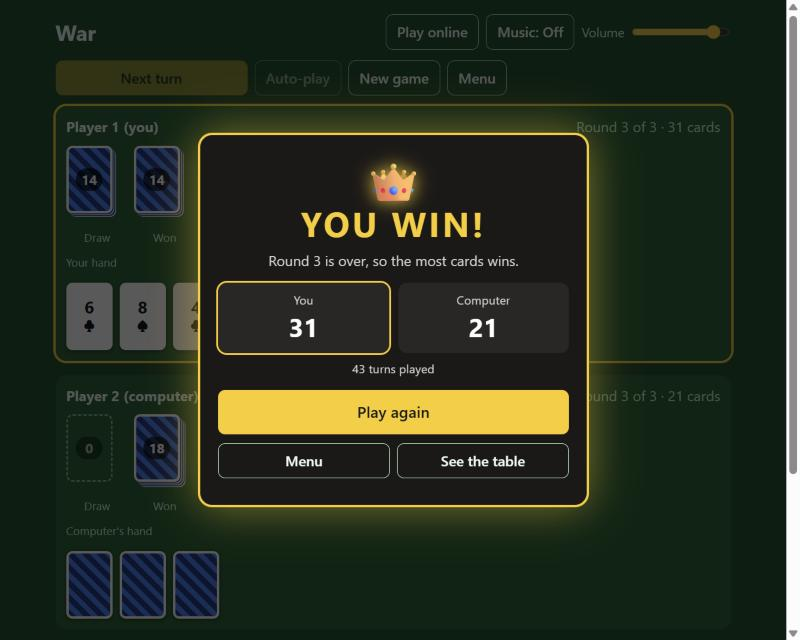
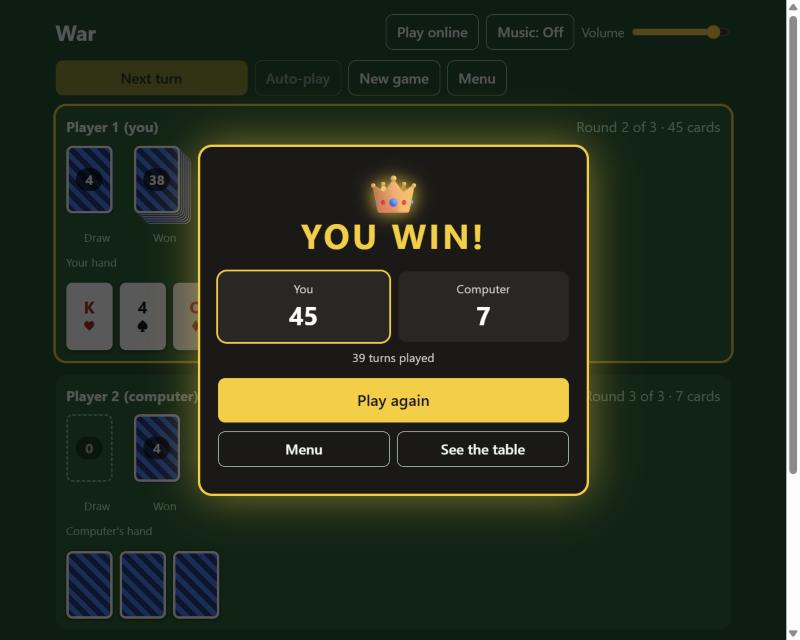
Remove the reason line from the end-of-match popup

diff --git a/war.html b/war.html
@@ -129,7 +129,7 @@
   #menu .row > * { flex: 1; }
   #menuStart { padding: 12px; font-size: 1.1rem; }
   #victory { border-color: var(--accent); box-shadow: 0 0 50px rgba(250, 204, 21, .5); position: fixed; }
-  #victory h2 { font-size: 2.4rem; }
+  #victory h2 { font-size: 2.4rem; margin-bottom: 14px; }
   #victory p { min-height: 0; margin-bottom: 14px; color: #d6d3d1; }
   #victory .crownBig { font-size: 52px; line-height: 1; filter: drop-shadow(0 0 10px #facc15); }
   #victory.draw .crownBig { display: none; }
@@ -400,7 +400,6 @@
 <dialog id="victory" aria-labelledby="victoryTitle">
   <div class="crownBig" aria-hidden="true">👑</div>
   <h2 id="victoryTitle">YOU WIN!</h2>
-  <p id="victoryWhy"></p>
   <div class="score">
     <div><span id="vName0">Player 1</span><strong id="vCards0">0</strong></div>
     <div><span id="vName1">Player 2</span><strong id="vCards1">0</strong></div>
@@ -1663,11 +1662,6 @@ function showVictory() {
   const me = online() ? net.me : draw3() ? 0 : null;   // the seat that is "you", if there is one
   $("victory").classList.toggle("draw", w === null);
   $("victoryTitle").textContent = w === null ? "IT'S A DRAW" : w === me ? "YOU WIN!" : `${seatName(w).toUpperCase()} WINS!`;
-  $("victoryWhy").textContent = {
-    cards: w === null ? "" : `${seatName(1 - w)} ran out of cards.`,
-    cap: `Round ${game.cap} is over, so the most cards wins.`,
-    stalemate: "Both players ran out of cards in a duel.",
-  }[game.reason];
   for (const i of [0, 1]) {
     $("vName" + i).textContent = seatName(i);
     $("vCards" + i).textContent = counts[i];
